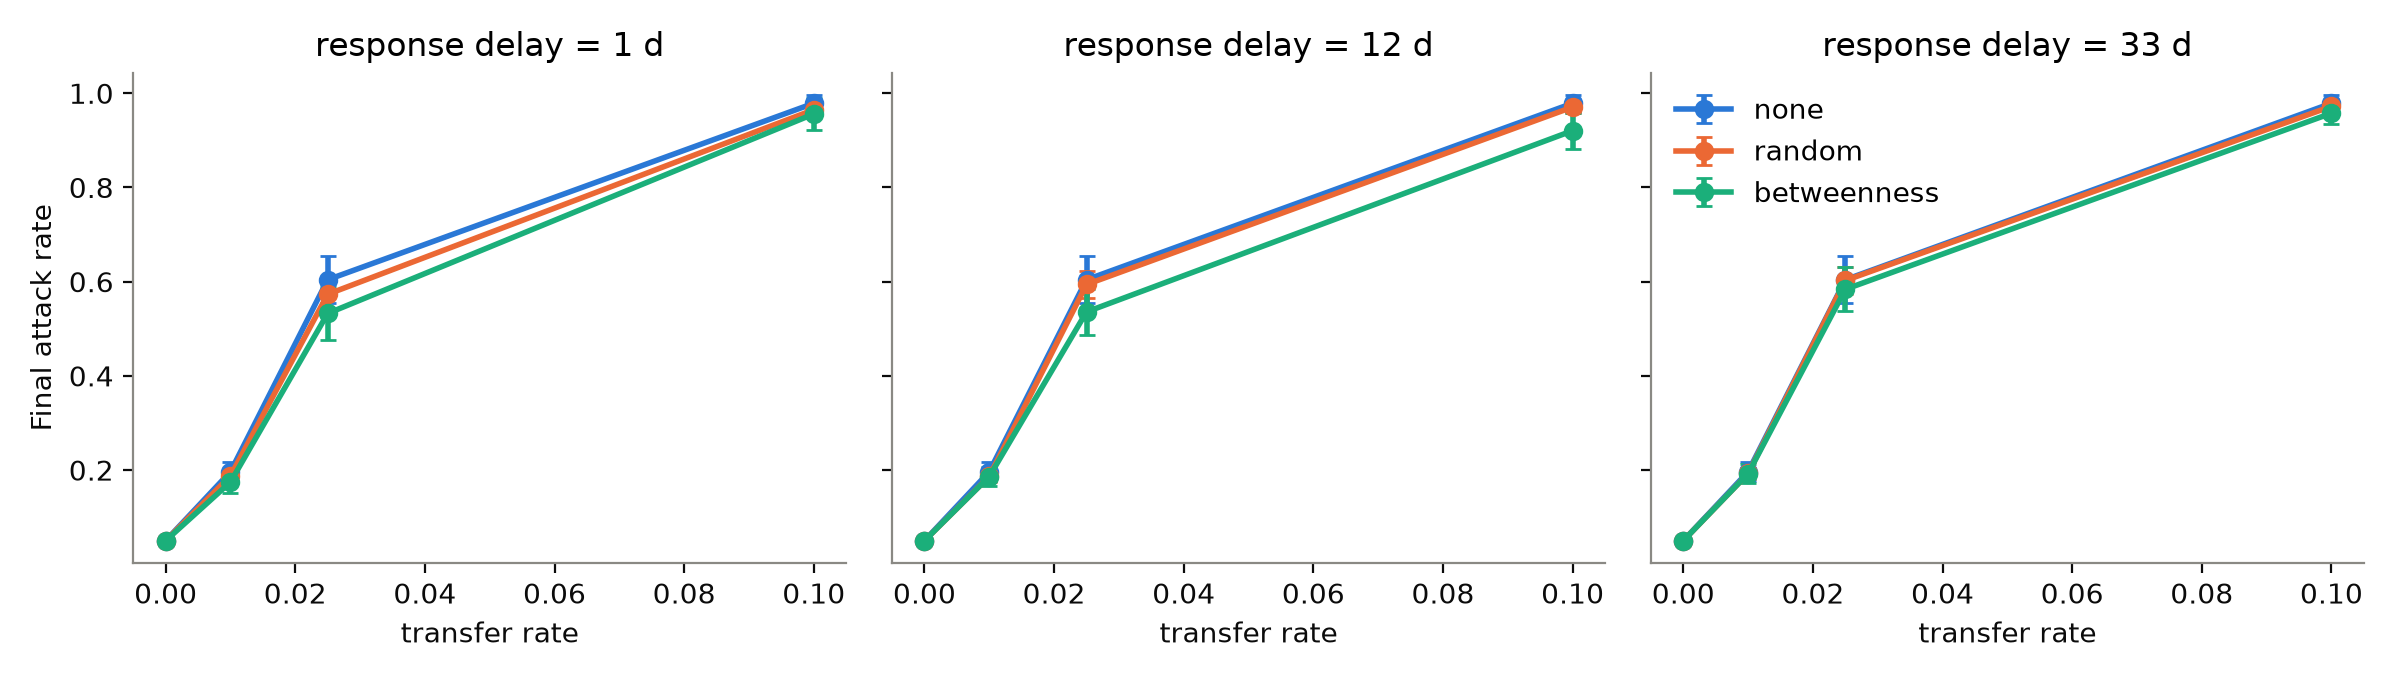
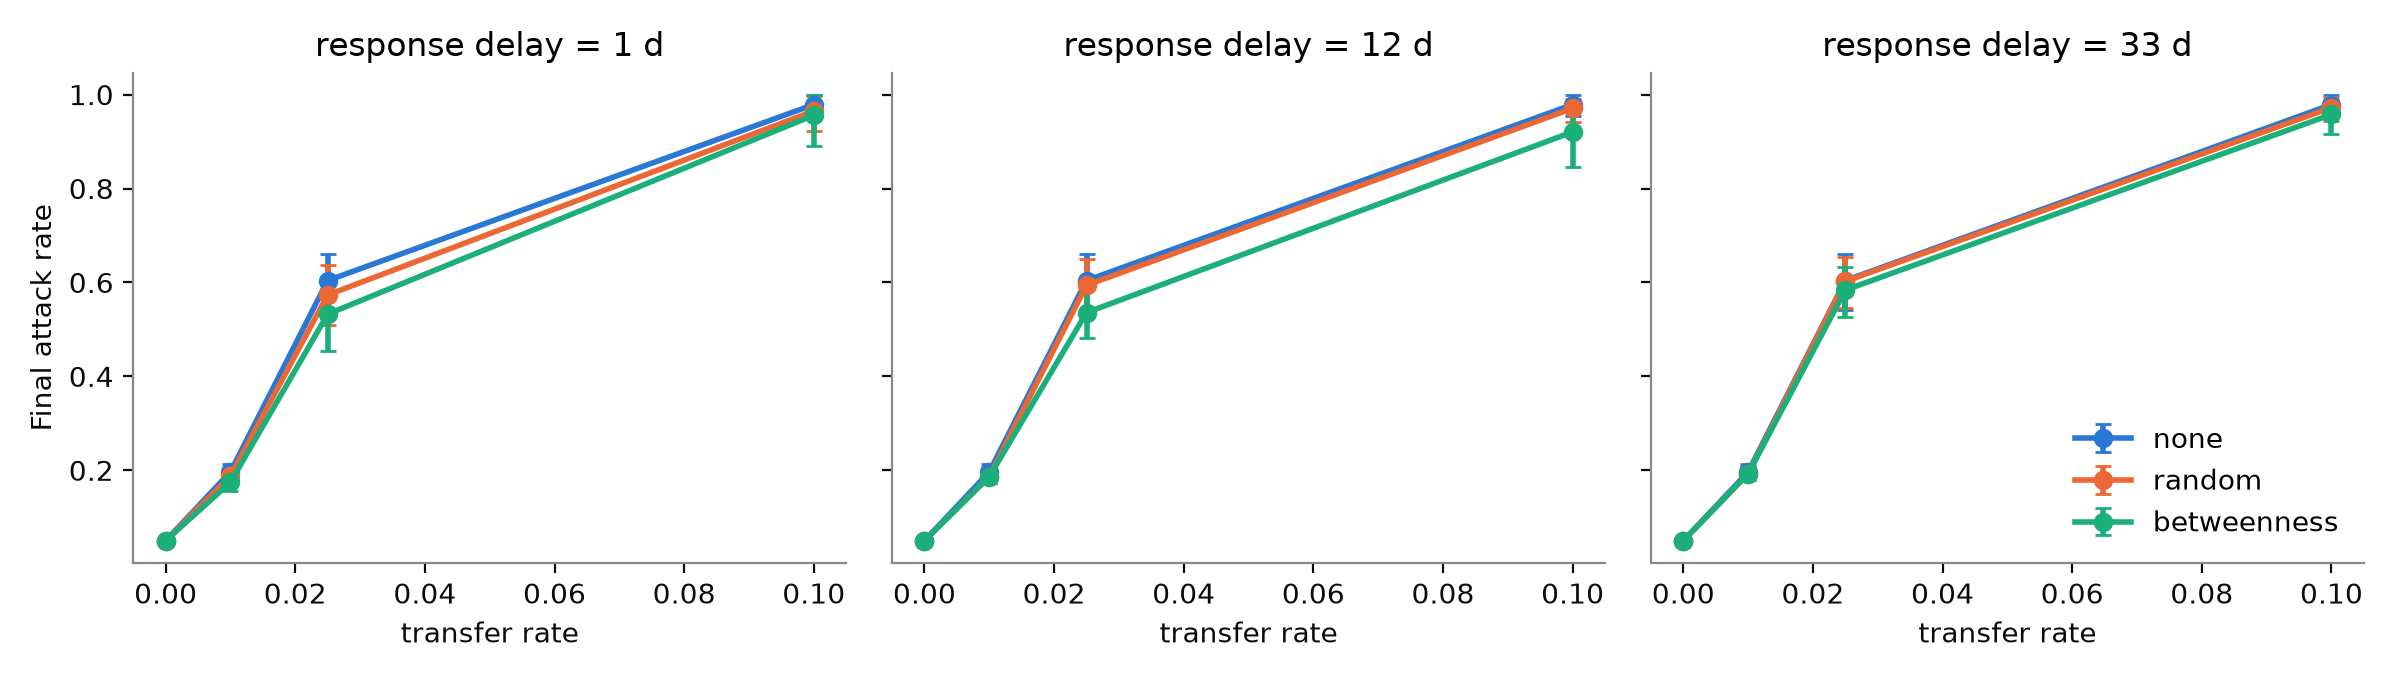
fix: error bars with degenerate bootstrap bounds; record clean-environment reproduction
A fresh clone with a new Python 3.12 environment reproduced the pilot selection, both formal runs
cell for cell, every formal-nested table and figure and the report byte for byte. It also exposed a
crash in analyse_results.py for the crossed formal run: identical values in a cell give bootstrap
bounds 1e-16 past the mean, a negative error-bar length. The crash was hidden earlier by a grep
filter, so results/analysis/formal/ had stale figures 2-3 and three missing files. Error-bar lengths
are now clipped at 0, with a regression test that fails without the fix, and the formal outputs are
regenerated. formal-nested and the report's numbers are unchanged. docs/reproduction-2026-10-06.md
records the comparison and the pilot configuration-hash change caused by the parameter freeze.

diff --git a/scripts/analyse_results.py b/scripts/analyse_results.py
@@ -60,6 +60,12 @@ METRIC_LABELS = {
 }
 
 
+def _error_lengths(mean: pd.Series, low: pd.Series, high: pd.Series) -> list:
+    """Error-bar lengths for matplotlib. When every value in a cell is identical, the bootstrap bounds can
+    differ from the mean by ~1e-16 in either direction, which matplotlib rejects as a negative length."""
+    return [(mean - low).clip(lower=0), (high - mean).clip(lower=0)]
+
+
 def run_status_table(summary: pd.DataFrame) -> pd.DataFrame:
     """Completed / censored / failed counts per condition; reported, never filtered silently (section 11)."""
     return (
@@ -84,7 +90,7 @@ def plot_metric_vs_transfer(cond: pd.DataFrame, metric: str, path: Path) -> None
             sel = sel.sort_values("transfer_rate")
             ax.errorbar(
                 sel["transfer_rate"], sel["mean"],
-                yerr=[sel["mean"] - sel["ci95_low"], sel["ci95_high"] - sel["mean"]],
+                yerr=_error_lengths(sel["mean"], sel["ci95_low"], sel["ci95_high"]),
                 marker="o", capsize=3, label=strategy, color=STRATEGY_COLORS[strategy],
             )
         ax.set_title(f"response delay = {int(delay)} d")
@@ -106,7 +112,7 @@ def plot_paired_effects(effects: pd.DataFrame, path: Path, subset: str = "all_bl
             sel = sel.sort_values("transfer_rate")
             ax.errorbar(
                 sel["transfer_rate"], sel["mean_diff"],
-                yerr=[sel["mean_diff"] - sel["mean_diff_ci95_low"], sel["mean_diff_ci95_high"] - sel["mean_diff"]],
+                yerr=_error_lengths(sel["mean_diff"], sel["mean_diff_ci95_low"], sel["mean_diff_ci95_high"]),
                 marker="o", capsize=3, label=f"delay {int(delay)} d", color=CATEGORICAL[i],
             )
         ax.axhline(0, color="grey", lw=0.8)

diff --git a/tests/test_analysis.py b/tests/test_analysis.py
@@ -336,3 +336,21 @@ def test_missing_baseline_is_excluded_and_counted():
     assert not diffs.filter(like="diff_").isna().any().any()
     table = baseline_effect_table(diffs, n_boot=20)
     assert (table["blocks"] == 11).all()
+
+
+def test_error_bars_tolerate_bounds_a_rounding_error_past_the_mean(tmp_path):
+    import importlib.util
+    from pathlib import Path
+
+    path = Path(__file__).resolve().parent.parent / "scripts" / "analyse_results.py"
+    spec = importlib.util.spec_from_file_location("analyse_results", path)
+    module = importlib.util.module_from_spec(spec)
+    spec.loader.exec_module(module)
+    # affected tanks are always 1 at transfer rate 0: the bootstrap bound lands just above the mean
+    cond = pd.DataFrame([
+        {"transfer_rate": r, "response_delay": d, "strategy": s, "metric": "affected_tanks",
+         "mean": 1.0, "ci95_low": 1.0 + 2e-16, "ci95_high": 1.0 - 2e-16}
+        for r in (0.0, 0.1) for d in (1, 12) for s in ("none", "random", "betweenness")
+    ])
+    module.plot_metric_vs_transfer(cond, "affected_tanks", tmp_path / "fig.png")
+    assert (tmp_path / "fig.png").exists()

diff --git a/docs/reproduction-2026-10-06.md b/docs/reproduction-2026-10-06.md
@@ -1,0 +1,44 @@
+# Clean-environment reproduction (2026-10-06)
+
+Purpose: check that the committed results and report can be regenerated from a fresh clone, with nothing reused from the working copy.
+
+## Setup
+
+- Fresh `git clone` of branch `docs/readme-diagram-contribution` at `8d7311f` into a temporary directory. The clone had no `results/raw/`.
+- New environment created with `uv venv --python 3.12` (Python 3.12.13) and `uv pip install -r requirements.txt`: numpy 2.5.2, networkx 3.6.1, pandas 3.0.5, matplotlib 3.11.1.
+- Ran the README sequence in order: tests, pilot stage 1 (both rounds), `pilot_select.py stage1 --force`, pilot stage 2, `pilot_select.py stage2`, `formal`, `formal-nested`, `analyse_results.py` for both formal designs, `build_report.py`, `draw_concept_diagram.py`.
+
+## Comparison with the committed files
+
+The criteria were fixed before the comparison:
+
+- **Must match exactly:** analysis tables, pilot criterion tables, the Stage 2 design and the report.
+- **Excluded from the comparison:** run provenance fields (`run_id`, timestamps, `code_commit`).
+
+| Output | Result |
+|---|---|
+| Tests | 166 passed (167 after the fix below) |
+| Pilot selection | Same choice: `beta` 0.2, `gamma` 0.1, transfer levels 0 / 0.01 / 0.025 / 0.1, delays 1 / 12 / 33, `D` 14 |
+| `results/pilot/*`, `experiments/config/pilot-stage2-intervention.json` | Byte-identical |
+| `results/summary/formal*.csv` (all 10,400 runs) | Identical in every cell except `run_id` and `code_commit` |
+| `results/summary/pilot-*.csv` (9,950 runs) | Identical in every result cell; `configuration_hash` differs (see below) |
+| `results/analysis/formal-nested/*` (tables, figures 1-7) | Byte-identical, except `fig7-selection.json`, which stores the run's `run_id` |
+| `report/report.md`, `docs/figures/concept-diagram.png` | Byte-identical |
+| `results/analysis/formal/*` | **Analysis crashed**; see below |
+
+Runtimes on this machine were 33 s, 41 s and 111 s for the three pilot stages, and 100 s and 104 s for the two formal runs.
+
+## Findings
+
+1. **Crash in `analyse_results.py formal` (fixed).** Figure 2 raised `'yerr' must not contain negative values`. When every value in a cell is identical, for example one affected tank at transfer rate 0, the cluster-bootstrap bound can differ from the mean by about 1e-16. That made the error-bar length slightly negative.
+
+   - **How it was missed.** The crash first occurred during the round-2 review fixes. It went unnoticed because the command's output was filtered through `grep`, which hid the traceback.
+   - **Effect.** In the committed `results/analysis/formal/` (the crossed-seed run, used only in report §3.5), figures 2-3 were stale and three summary files were missing. The tables used by the report were written before the crash and are correct.
+   - **Fix.** Error-bar lengths are clipped at 0. A regression test was added that fails without the fix. All outputs were regenerated.
+   - **Not affected.** `formal-nested`, the reported experiment.
+
+2. **Pilot configuration hashes changed after the parameter freeze (documented, not changed).** `SimulationConfig.to_dict()` includes `provisional_fields`. This list had five entries when the pilot ran and is empty since the freeze (`f4eac85`), so the same pilot configuration now hashes differently. Results are unaffected.
+
+   The consequence is for `--resume`: run against a pilot raw file produced before the freeze, it would not recognise any finished run and would rerun all of them. The formal runs were made after the freeze and are unaffected.
+
+3. **Lesson for the remaining runs.** Every pipeline step is now run with `set -o pipefail`, so a failure inside a filtered command stops the sequence.

diff --git a/README.md b/README.md
@@ -18,7 +18,7 @@ This repository holds the research design, model implementation, computational e
 
 | Part | State |
 |---|---|
-| Model (`turtlefarm/`) | Complete: SIR within tanks, modular network, network-constrained movement, tank quarantine (random / highest-betweenness), event-keyed paired randomness, batch runner. 166 tests pass. |
+| Model (`turtlefarm/`) | Complete: SIR within tanks, modular network, network-constrained movement, tank quarantine (random / highest-betweenness), event-keyed paired randomness, batch runner. 167 tests pass. |
 | Pilot | Run; parameters frozen (`beta` 0.2, `gamma` 0.1, transfer levels 0 / 0.01 / 0.025 / 0.1, delays 1 / 12 / 33 days, `D` 14). See `docs/pilot-report-2026-10-06.md`. |
 | Formal experiment | `formal-nested`: 5,200 runs, 20 networks, 100 nested epidemic seeds; none failed or censored. |
 | Analysis and figures | `results/analysis/formal-nested/` (tables, figures 1-7). |
@@ -85,7 +85,7 @@ Python 3.12, with dependencies pinned in `requirements.txt`.
 uv venv --python 3.12 .venv          # or: python3.12 -m venv .venv
 source .venv/bin/activate
 uv pip install -r requirements.txt   # or: pip install -r requirements.txt
-python -m pytest -q                  # 166 tests
+python -m pytest -q                  # 167 tests
 
 # pilot (about 4 minutes in total) and parameter selection
 python scripts/run_experiment.py experiments/config/pilot-stage1-disease.json

diff --git a/report/report.md b/report/report.md
@@ -108,7 +108,7 @@ Epidemic draws are *event-keyed*, an implementation of common random numbers [9]
 
 ### 2.6 Verification
 
-The test suite has 166 automated tests, covering:
+The test suite has 167 automated tests, covering:
 
 - the invariants: agent count, `S + I + R = 200`, one tank per agent, capacity, no reinfection, quarantine blocking both directions, and reproducibility under identical seeds;
 - extreme cases, for example `beta = 0`, `gamma = 1`, `transfer_rate = 0` and a full tank;
